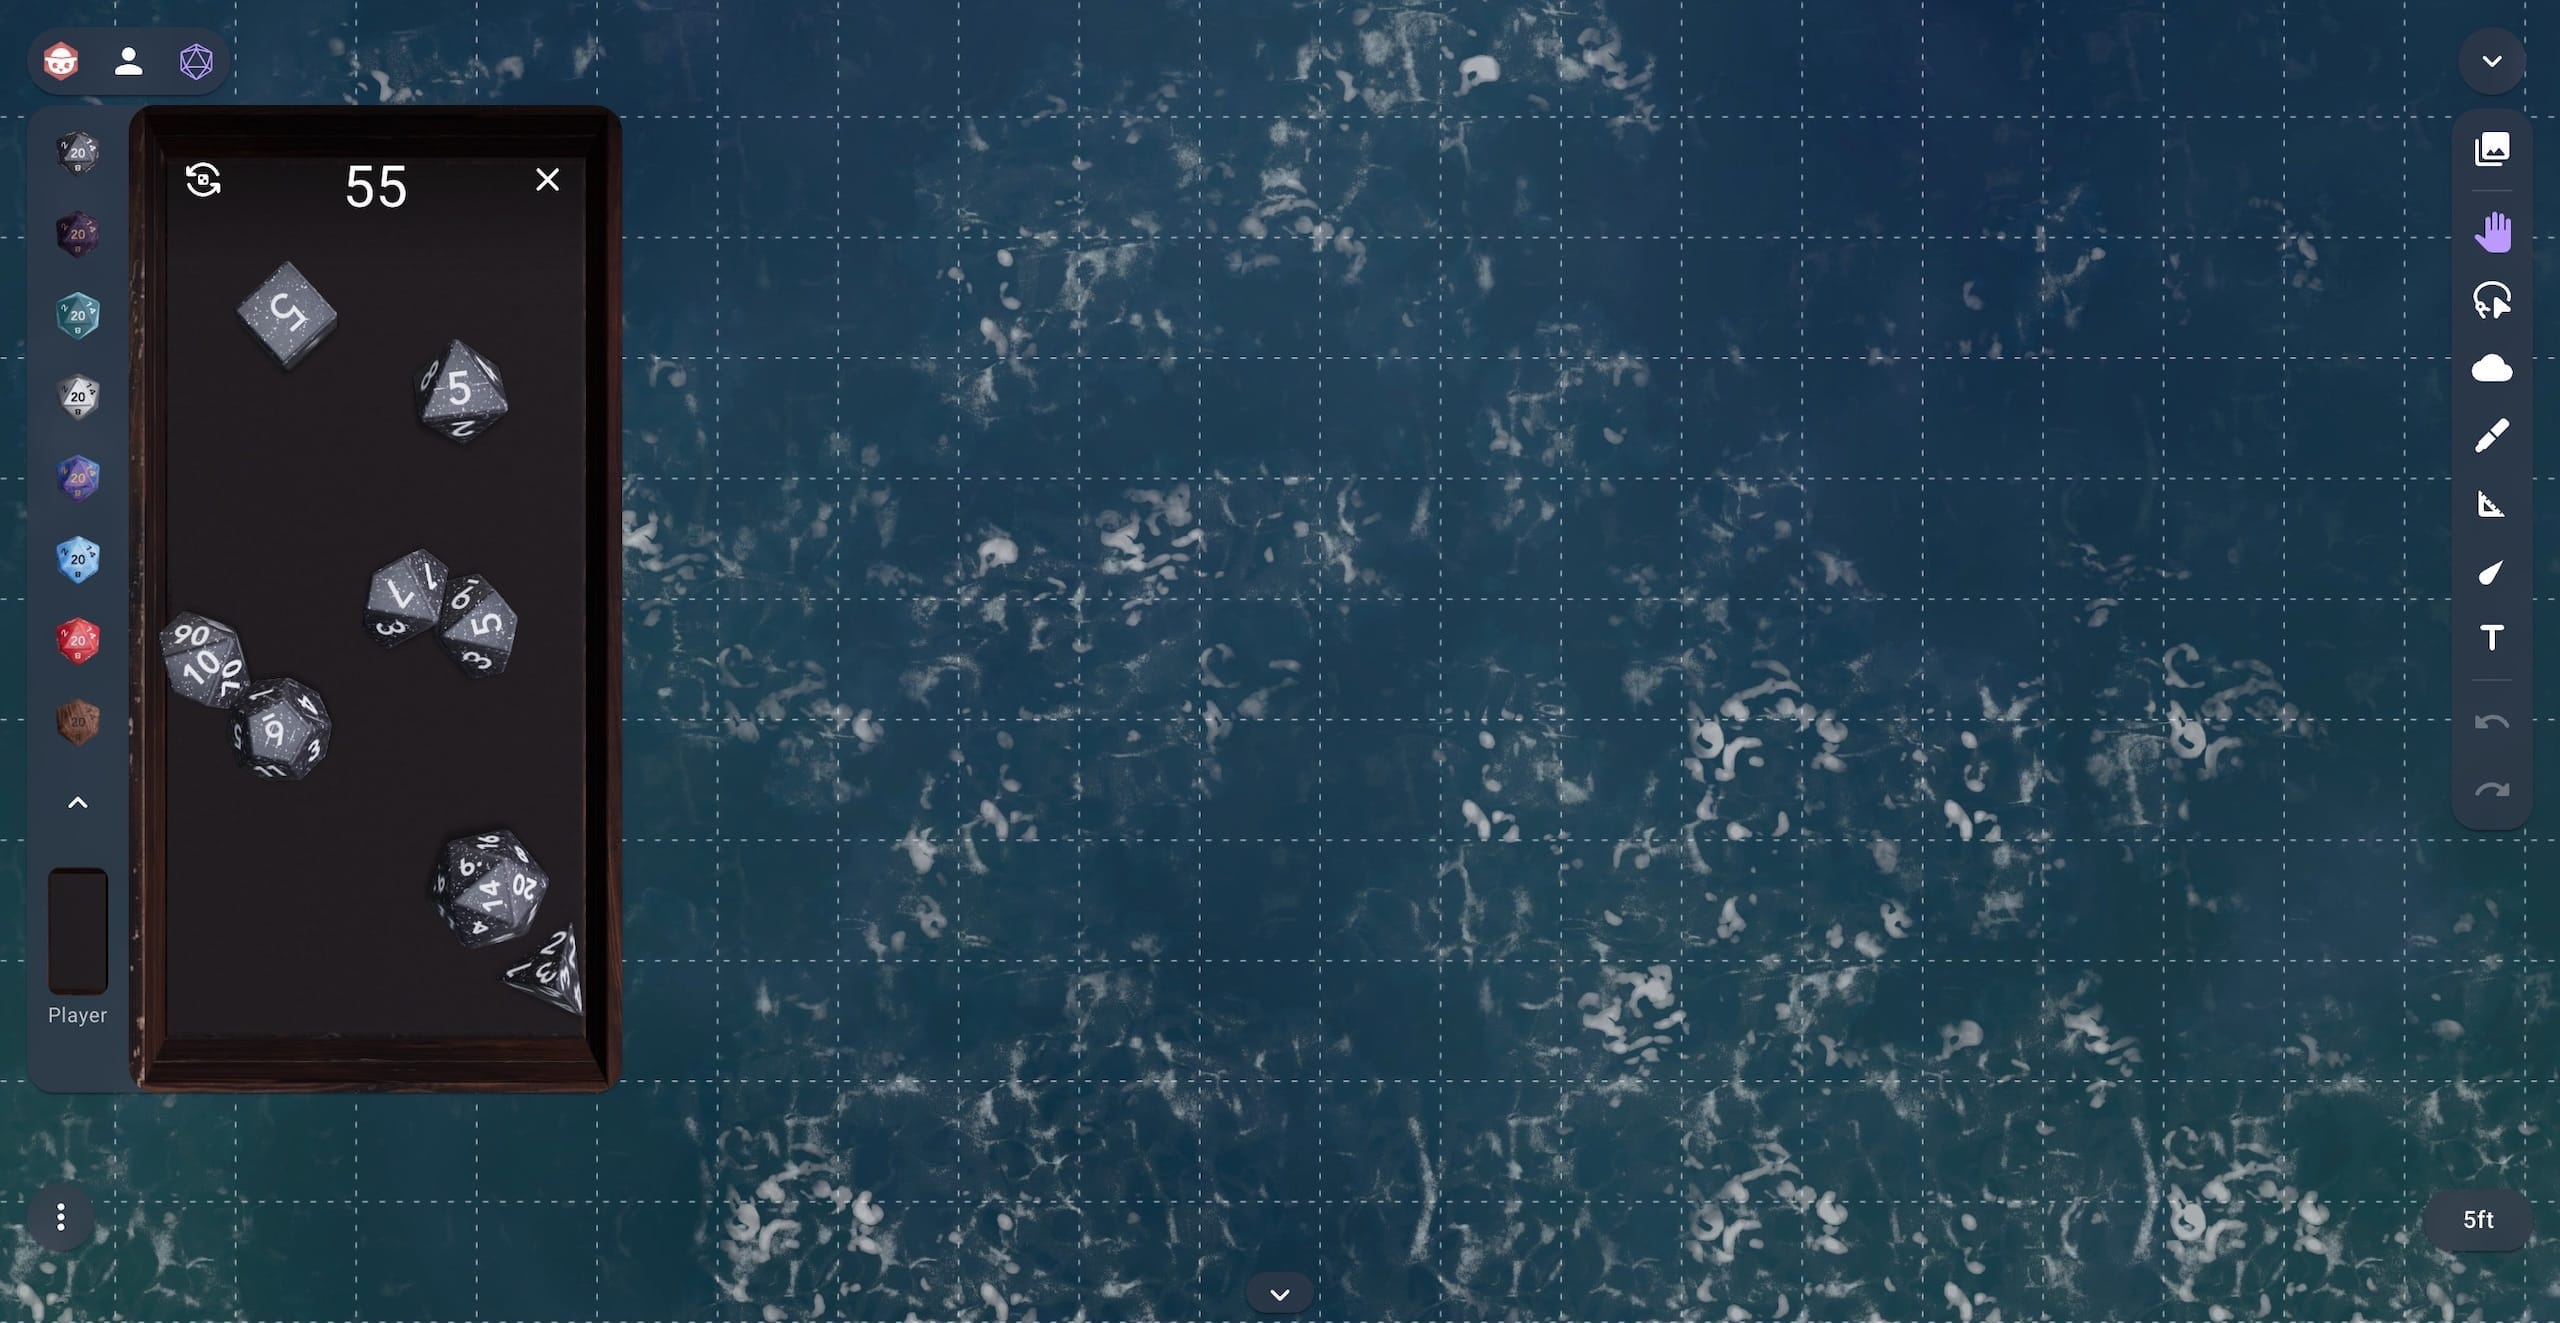
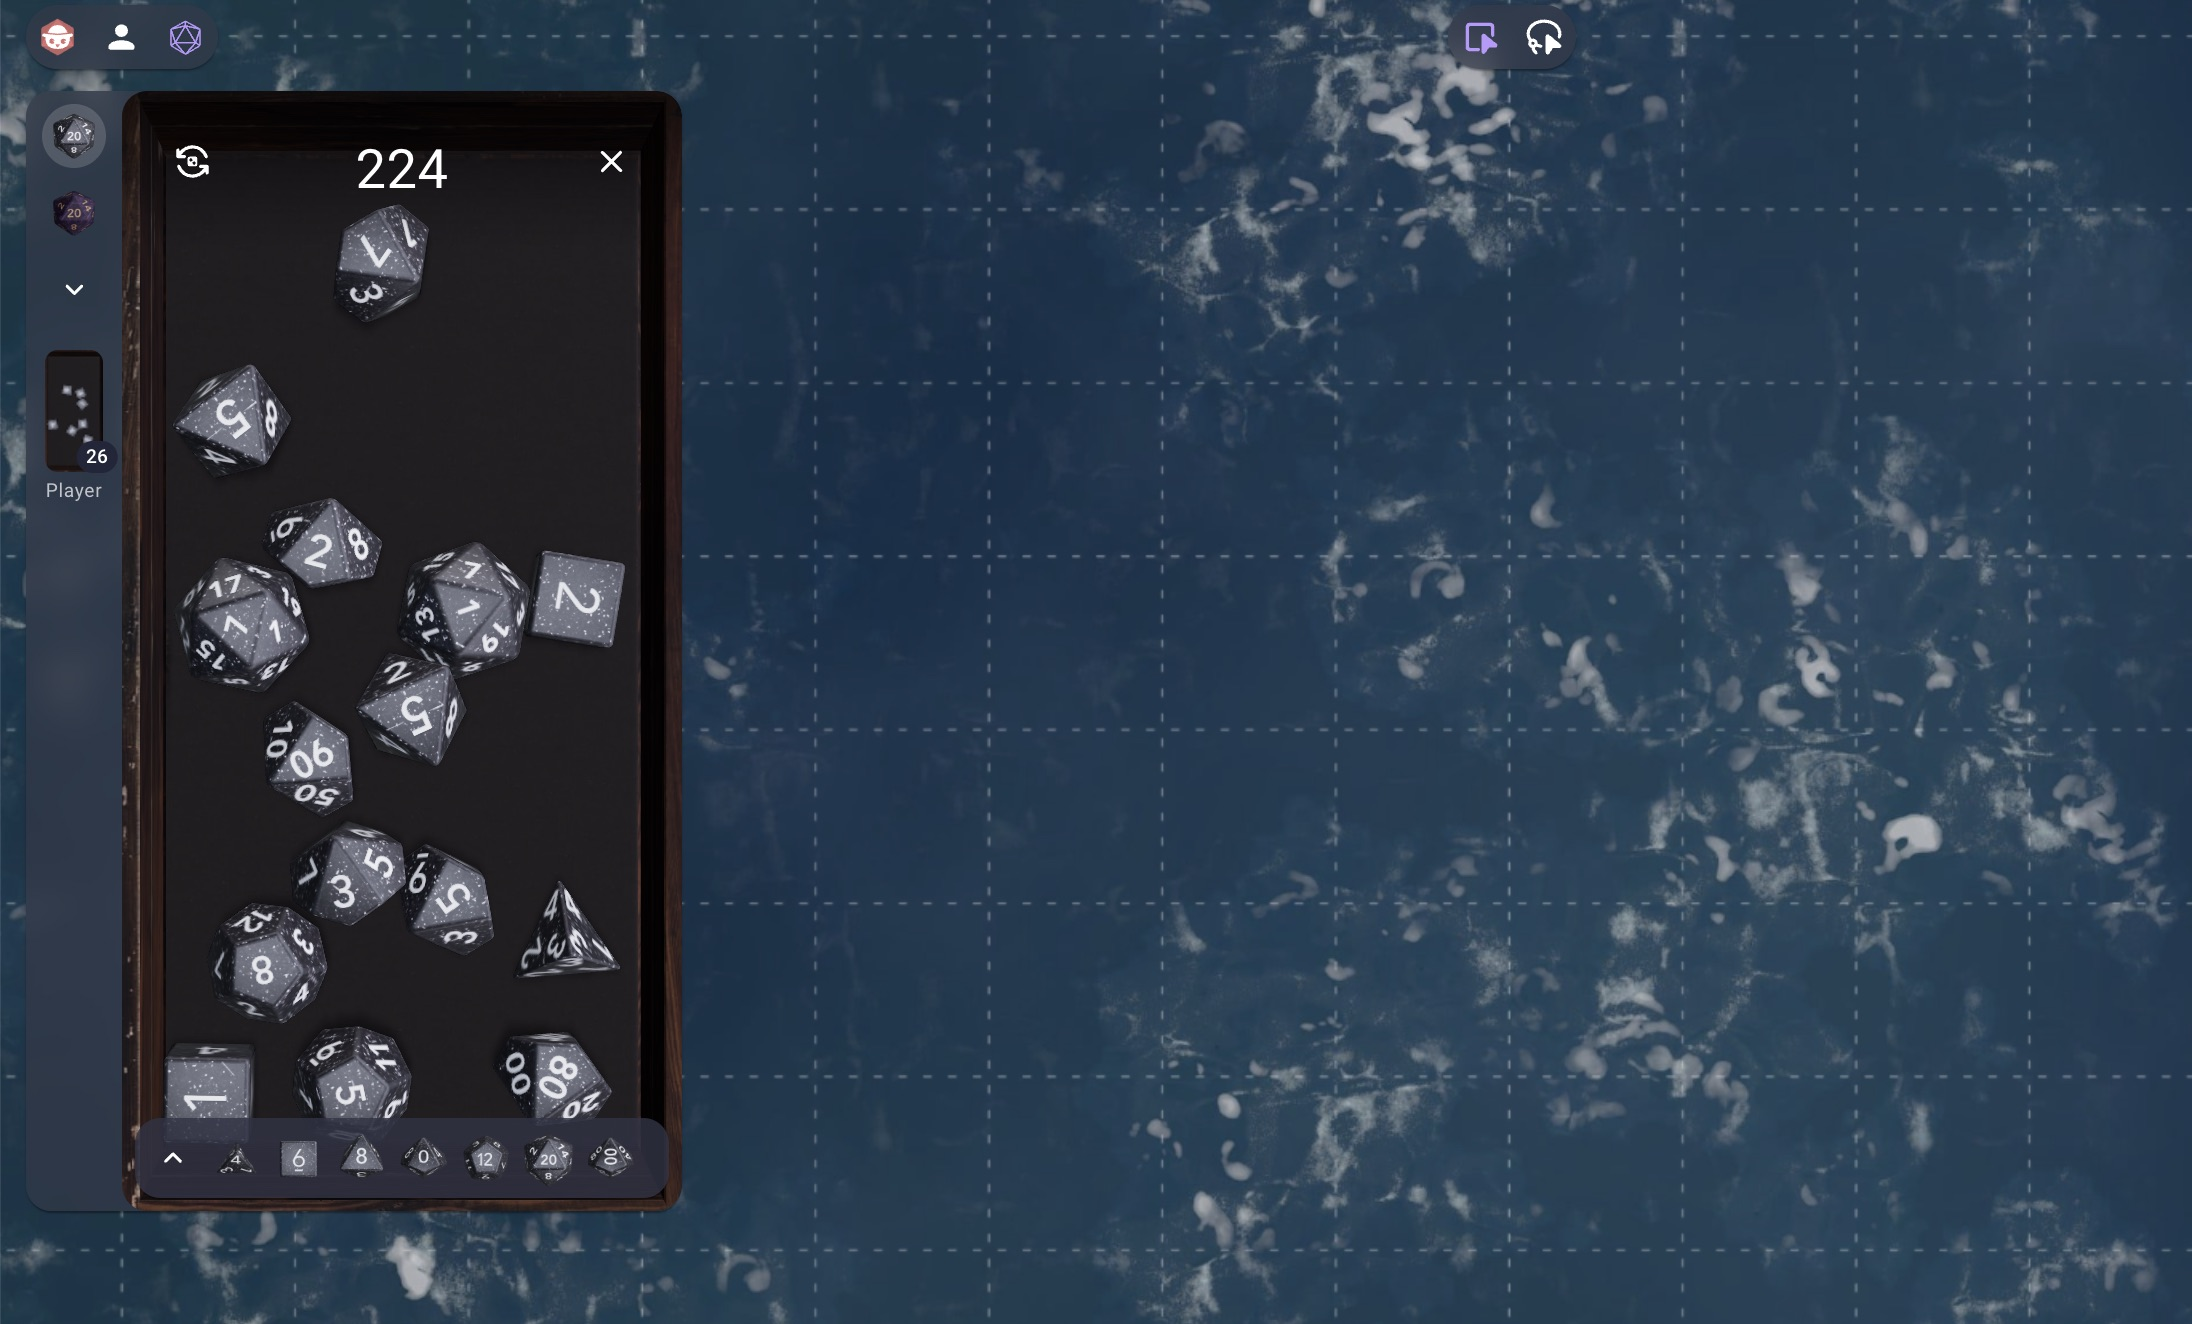
Update docs

diff --git a/docs/store.md b/docs/store.md
@@ -17,7 +17,9 @@ Beautiful 3D dice extension for d20 based systems
 
 You can roll dice by selecting a style on the left of the dice popover.
 
-You can then use the inputs to select which dice to roll. When you want to roll the dice simply click the Roll button.
+You can then use the quick bar to select which dice to roll. When you want to roll the dice simply click the Roll button.
+
+If you'd like more control over the roll you can expand the quick bar into a full roll dialog.
 
 ![roll interface](https://raw.githubusercontent.com/owlbear-rodeo/dice/main/docs/roll.jpg)
 
